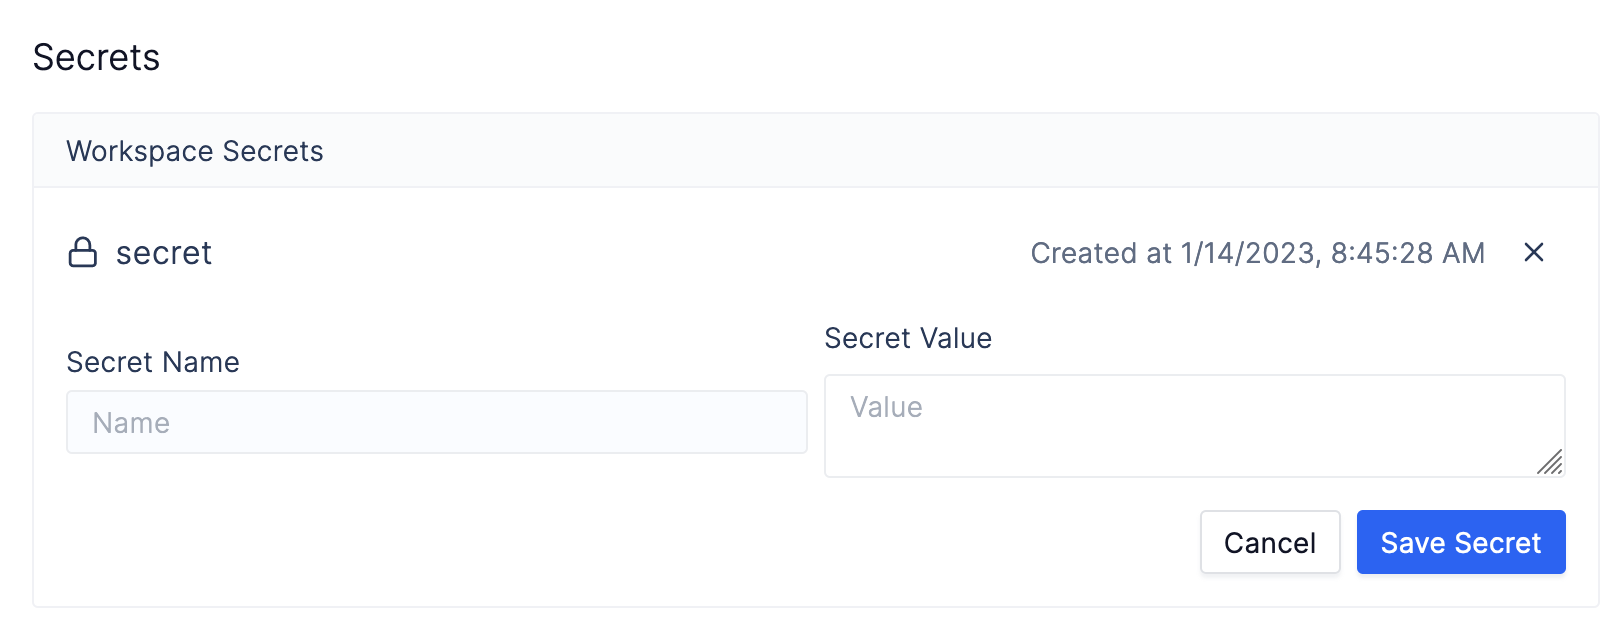
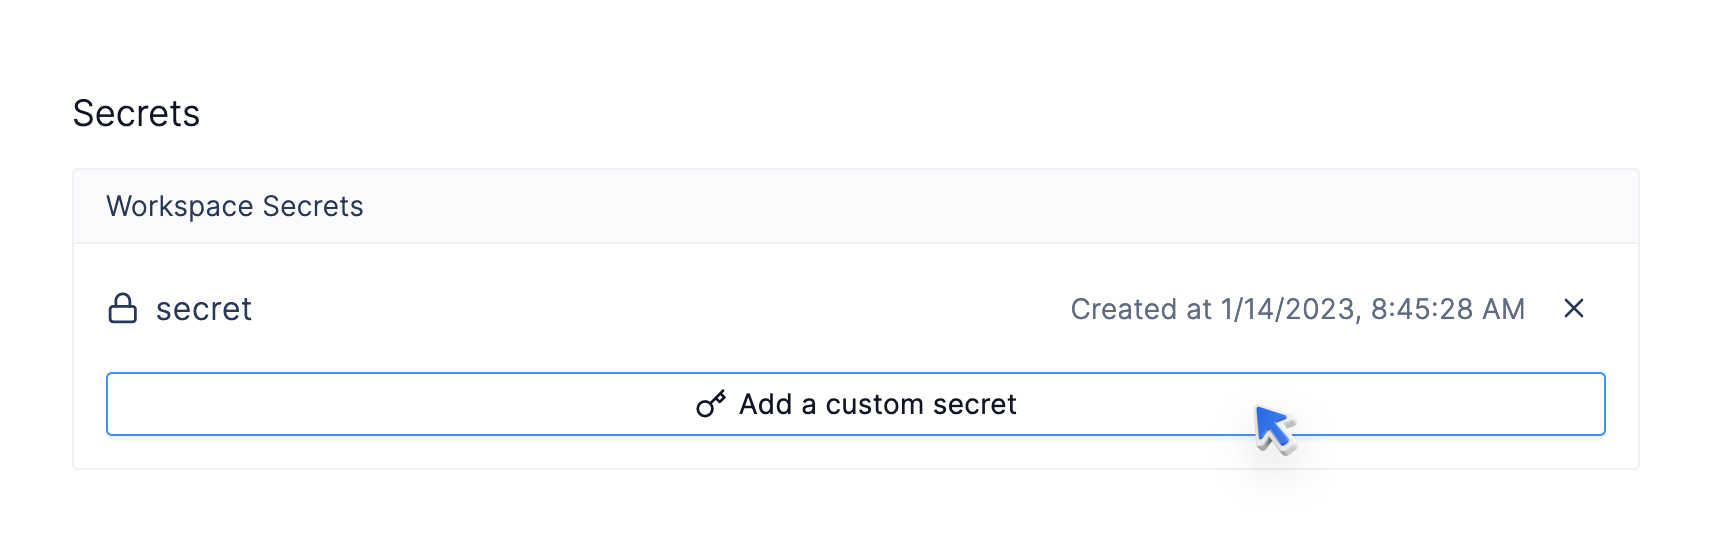
docs fixies

diff --git a/docs/source/basics/adding_secrets.md b/docs/source/basics/adding_secrets.md
@@ -7,16 +7,21 @@ special utilities that handle this securely.
 ## Adding Secrets
 
 To add a secret, simply navigate to the [Latch Console](https://console.latch.bio)
-and head to Account Settings > Developer Settings.
+and head to Account Settings.
 
 ![How to get to Account Settings](../assets/settings-menu.png)
 
+From there, navigate to Developer Settings
+
 ![How to get to Developer Settings](../assets/developer-settings.png)
 
-From there, scroll down to the 'Secrets' section and add your secrets. Secrets
-consist of key-value pairs where keys are unique across a workspace. Secrets are
-also immutable, so the only way to change the value of a given secret is to
-delete it and add a new one with the same key.
+From there, scroll down to the 'Secrets' section and add your secrets.
+
+![How to add a Secret](../assets/secrets.png)
+
+Secrets consist of key-value pairs where keys are unique across a workspace.
+Secrets are also immutable, so the only way to change the value of a given
+secret is to delete it and add a new one with the same key.
 
 ## Using Secrets
 

diff --git a/docs/source/api/latch_cli.services.init.assemble_and_sort.rst b/docs/source/api/latch_cli.services.init.assemble_and_sort.rst
@@ -1,6 +1,25 @@
 latch\_cli.services.init.assemble\_and\_sort package
 ====================================================
 
+Submodules
+----------
+
+latch\_cli.services.init.assemble\_and\_sort.assemble module
+------------------------------------------------------------
+
+.. automodule:: latch_cli.services.init.assemble_and_sort.assemble
+   :members:
+   :undoc-members:
+   :show-inheritance:
+
+latch\_cli.services.init.assemble\_and\_sort.sort module
+--------------------------------------------------------
+
+.. automodule:: latch_cli.services.init.assemble_and_sort.sort
+   :members:
+   :undoc-members:
+   :show-inheritance:
+
 Module contents
 ---------------
 

diff --git a/docs/source/api/latch_cli.services.init.template.rst b/docs/source/api/latch_cli.services.init.template.rst
@@ -1,0 +1,21 @@
+latch\_cli.services.init.template package
+=========================================
+
+Submodules
+----------
+
+latch\_cli.services.init.template.task module
+---------------------------------------------
+
+.. automodule:: latch_cli.services.init.template.task
+   :members:
+   :undoc-members:
+   :show-inheritance:
+
+Module contents
+---------------
+
+.. automodule:: latch_cli.services.init.template
+   :members:
+   :undoc-members:
+   :show-inheritance:

diff --git a/docs/source/api/latch_cli.services.init.example_conda.rst b/docs/source/api/latch_cli.services.init.example_conda.rst
@@ -1,6 +1,17 @@
 latch\_cli.services.init.example\_conda package
 ===============================================
 
+Submodules
+----------
+
+latch\_cli.services.init.example\_conda.conda\_task module
+----------------------------------------------------------
+
+.. automodule:: latch_cli.services.init.example_conda.conda_task
+   :members:
+   :undoc-members:
+   :show-inheritance:
+
 Module contents
 ---------------
 

diff --git a/docs/source/api/latch_cli.services.init.example_r.rst b/docs/source/api/latch_cli.services.init.example_r.rst
@@ -1,6 +1,17 @@
 latch\_cli.services.init.example\_r package
 ===========================================
 
+Submodules
+----------
+
+latch\_cli.services.init.example\_r.r\_task module
+--------------------------------------------------
+
+.. automodule:: latch_cli.services.init.example_r.r_task
+   :members:
+   :undoc-members:
+   :show-inheritance:
+
 Module contents
 ---------------
 

diff --git a/docs/source/api/latch.functions.rst b/docs/source/api/latch.functions.rst
@@ -20,6 +20,14 @@ latch.functions.operators module
    :undoc-members:
    :show-inheritance:
 
+latch.functions.secrets module
+------------------------------
+
+.. automodule:: latch.functions.secrets
+   :members:
+   :undoc-members:
+   :show-inheritance:
+
 Module contents
 ---------------
 

diff --git a/docs/source/api/latch_cli.services.init.rst b/docs/source/api/latch_cli.services.init.rst
@@ -10,6 +10,7 @@ Subpackages
    latch_cli.services.init.assemble_and_sort
    latch_cli.services.init.example_conda
    latch_cli.services.init.example_r
+   latch_cli.services.init.template
 
 Submodules
 ----------

diff --git a/docs/source/index.md b/docs/source/index.md
@@ -81,6 +81,7 @@ basics/customizing_interface
 basics/caching
 basics/conditional_section
 basics/map_task
+basics/adding_secrets
 ```
 
 ```{toctree}
